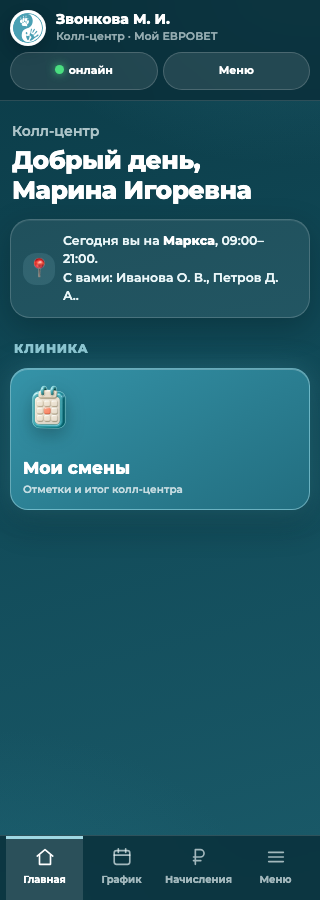
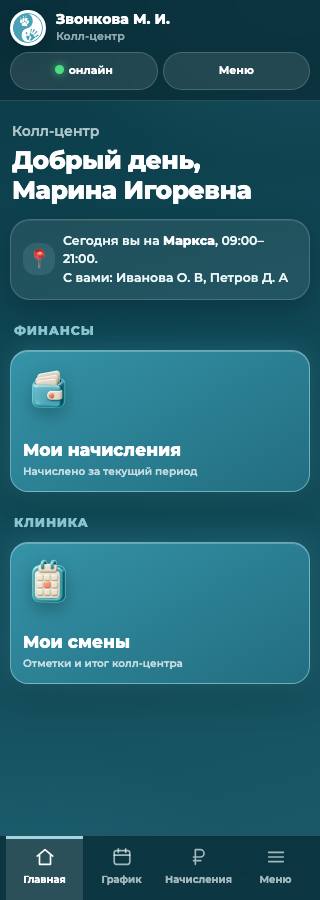
Build approved 2.0 entry and role home on test

Changed region(s): [[0.0312, 0.28, 0.9688, 0.7778], [0.4062, 0.0311, 0.6562, 0.0622], [0.9375, 0.3111, 0.9688, 0.3422]]

diff --git a/ui2-common.css b/ui2-common.css
@@ -440,3 +440,47 @@ body.ui2 .k-staff .tile{padding-left:8px;padding-right:8px;font-size:14px;white-
   body.ui2 .step{display:grid;grid-template-columns:minmax(0,1fr) 42px 34px 42px;gap:8px}
   body.ui2 .step>span{grid-column:1/-1}
 }
+
+/* 2.0 — вход по макету этапа 1. */
+body.ui2.login-mode{padding-bottom:0}
+body.ui2 header.login-head{display:none}
+body.ui2.login-mode main{max-width:420px;min-height:100vh;min-height:100dvh;padding:0 22px}
+body.ui2 .ui2-login-shell{min-height:100vh;min-height:100dvh;padding:calc(42px + env(safe-area-inset-top,0px)) 0 calc(28px + env(safe-area-inset-bottom,0px));display:flex;flex-direction:column;justify-content:flex-start;text-align:center}
+body.ui2 .ui2-login-spacer{flex:1;min-height:18px}
+body.ui2 .ui2-halo{width:172px;height:172px;border-radius:50%;display:grid;place-items:center;margin:0 auto;background:radial-gradient(circle,rgba(159,216,227,.30) 0%,rgba(74,160,180,.12) 45%,transparent 70%);animation:ev-breathe 3.2s cubic-bezier(.45,0,.25,1) infinite}
+body.ui2 .ui2-halo img{width:112px;height:112px;filter:brightness(0) invert(1) drop-shadow(0 0 18px rgba(159,216,227,.75)) drop-shadow(0 0 4px rgba(255,255,255,.6))}
+body.ui2 .ui2-wordmark{display:flex;align-items:baseline;justify-content:center;color:#fff;font-weight:800;letter-spacing:.04em;line-height:1;white-space:nowrap}
+body.ui2 .ui2-wordmark.lg{margin-top:28px;font-size:34px}
+body.ui2 .ui2-wordmark.sm{font-size:19px}
+body.ui2 .ui2-wordmark .gap{width:.32em}
+body.ui2 .ui2-wordmark img{width:.72em;height:.72em;margin:0 .03em;align-self:baseline;filter:brightness(0) invert(1);animation:none}
+body.ui2 .ui2-login-lead{margin:14px 0 0;color:rgba(234,246,248,.82);font-size:16px;line-height:1.45}
+body.ui2 .ui2-login-btn{height:60px;border-radius:20px;font-size:18px}
+body.ui2 .ui2-key-login h2{margin-top:34px;color:#fff;text-align:center;font-size:22px}
+body.ui2 .ui2-login-entry{min-height:150px;margin-top:22px}
+body.ui2 .ui2-field-label{margin-bottom:12px;color:rgba(234,246,248,.78);font-size:14px;font-weight:600;text-align:center}
+body.ui2 .ui2-digits{display:flex;justify-content:center;gap:12px}
+body.ui2 .ui2-digits span{width:62px;height:72px;border-radius:18px;display:grid;place-items:center;color:#fff;background:rgba(255,255,255,.08);border:1px solid rgba(255,255,255,.18);font-size:32px;font-weight:700}
+body.ui2 .ui2-digits span.cur{border-color:var(--ev-mint);box-shadow:0 0 0 3px rgba(159,216,227,.18)}
+body.ui2 .ui2-dots{display:flex;justify-content:center;align-items:center;gap:16px;height:54px}
+body.ui2 .ui2-dots i{width:16px;height:16px;border-radius:50%;border:2px solid rgba(234,246,248,.48)}
+body.ui2 .ui2-dots i.on{border-color:var(--ev-mint);background:var(--ev-mint);box-shadow:0 0 11px rgba(159,216,227,.55)}
+body.ui2 .ui2-numrow{margin-top:8px;color:rgba(234,246,248,.72);font-size:13px}
+body.ui2 .ui2-numrow b{display:inline;color:#fff}
+body.ui2 .ui2-numrow button{padding:4px 6px;color:var(--ev-mint);background:transparent;border:0;text-decoration:underline}
+body.ui2 .ui2-key-login .ui2-shared{display:flex;align-items:flex-start;justify-content:center;gap:10px;max-width:280px;margin:14px auto 0;color:rgba(234,246,248,.82);font-size:12.5px;text-align:left}
+body.ui2 .ui2-key-login .ui2-shared input{flex:none;width:20px;height:20px;min-height:0;margin:1px 0 0;accent-color:var(--ev-accent-light)}
+body.ui2 .ui2-key-login .ui2-shared small{color:rgba(234,246,248,.62)}
+body.ui2 .ui2-pad{display:grid;grid-template-columns:repeat(3,1fr);gap:10px;max-width:300px;margin:0 auto}
+body.ui2 .ui2-pad button{height:58px;border-radius:18px;color:#fff;background:rgba(255,255,255,.08);border:1px solid rgba(255,255,255,.18);font-size:24px;font-weight:700;box-shadow:inset 0 1px 0 rgba(255,255,255,.08)}
+body.ui2 .ui2-pad button:active{transform:scale(.97);background:rgba(159,216,227,.18)}
+body.ui2 .ui2-pad .blank{visibility:hidden}
+body.ui2 .ui2-pad .del{color:rgba(234,246,248,.72);background:transparent;border-color:transparent}
+body.ui2 .ui2-login-fine{margin:18px 0 0;color:rgba(234,246,248,.62);font-size:13px;line-height:1.45;text-align:center}
+body.ui2 .ui2-login-busy{position:fixed;inset:0;display:grid;place-items:center;color:#fff;background:rgba(3,22,28,.45);font-size:18px;font-weight:800;backdrop-filter:blur(3px)}
+body.ui2 .ui2-prepare{padding:24px;text-align:center}
+body.ui2 .ui2-prepare .ic{display:grid;place-items:center;width:76px;height:76px;margin:0 auto 14px;color:#D9F4F8}
+body.ui2 .ui2-prepare .ic img,body.ui2 .ui2-prepare .ic svg{width:76px;height:76px;object-fit:contain}
+body.ui2 .ui2-prepare h2{color:#fff}
+body.ui2 .ui2-prepare p{margin:10px 0 22px;color:rgba(234,246,248,.78)}
+@media(max-height:700px){body.ui2 .ui2-login-shell{padding-top:24px}.ui2-halo{width:136px!important;height:136px!important}.ui2-halo img{width:88px!important;height:88px!important}.ui2-login-entry{min-height:126px!important}.ui2-pad button{height:50px!important}}

diff --git a/config.js b/config.js
@@ -16,29 +16,31 @@ window.EVROVET_UI2_CONFIG=Object.freeze({
     callcenter_shift:true,
     schedule:true,
     accruals:true,
+    where_i_work:true,
+    my_accruals:true,
     head_money:true,
     head_reports:true,
     head_cash_safe:true,
     head_payroll:true,
-    vaccines_stock:false,
+    people_roles:true,
+    vaccines:false,
     vaccines_all_branches:false,
     vaccines_input:false,
     dose_calculator:false,
     supplies:false,
     supplies_all_requests:false,
     supply_order:false,
-    people_roles:false,
     modules_roles:false,
     birthdays:false
   }),
   roleTiles:Object.freeze({
-    head:Object.freeze(['head_money','head_reports','head_cash_safe','head_payroll']),
-    admin:Object.freeze(['evening_report','cash_acceptance','vaccines_stock','vaccines_input','supplies']),
-    doctor:Object.freeze(['appointments','vaccines_stock','dose_calculator','supplies']),
-    assistant_clinical:Object.freeze(['vaccines_stock','dose_calculator','supplies']),
-    assistant_tech:Object.freeze(['vaccines_stock','dose_calculator','supplies']),
-    callcenter:Object.freeze(['callcenter_shift','vaccines_stock']),
-    courier:Object.freeze(['vaccines_all_branches','supplies_all_requests','supply_order'])
+    head:Object.freeze(['head_money','head_reports','head_cash_safe','head_payroll','people_roles']),
+    admin:Object.freeze(['evening_report','cash_acceptance','vaccines','supplies']),
+    doctor:Object.freeze(['appointments','dose_calculator','supplies']),
+    assistant_clinical:Object.freeze(['my_accruals','where_i_work','vaccines','dose_calculator','supplies']),
+    assistant_tech:Object.freeze(['my_accruals','where_i_work','vaccines','dose_calculator','supplies']),
+    callcenter:Object.freeze(['callcenter_shift','my_accruals']),
+    courier:Object.freeze(['my_accruals','vaccines_all_branches','supplies_all_requests','supply_order'])
   }),
   navByRole:Object.freeze({
     default:Object.freeze(['home','schedule','accruals','menu']),
